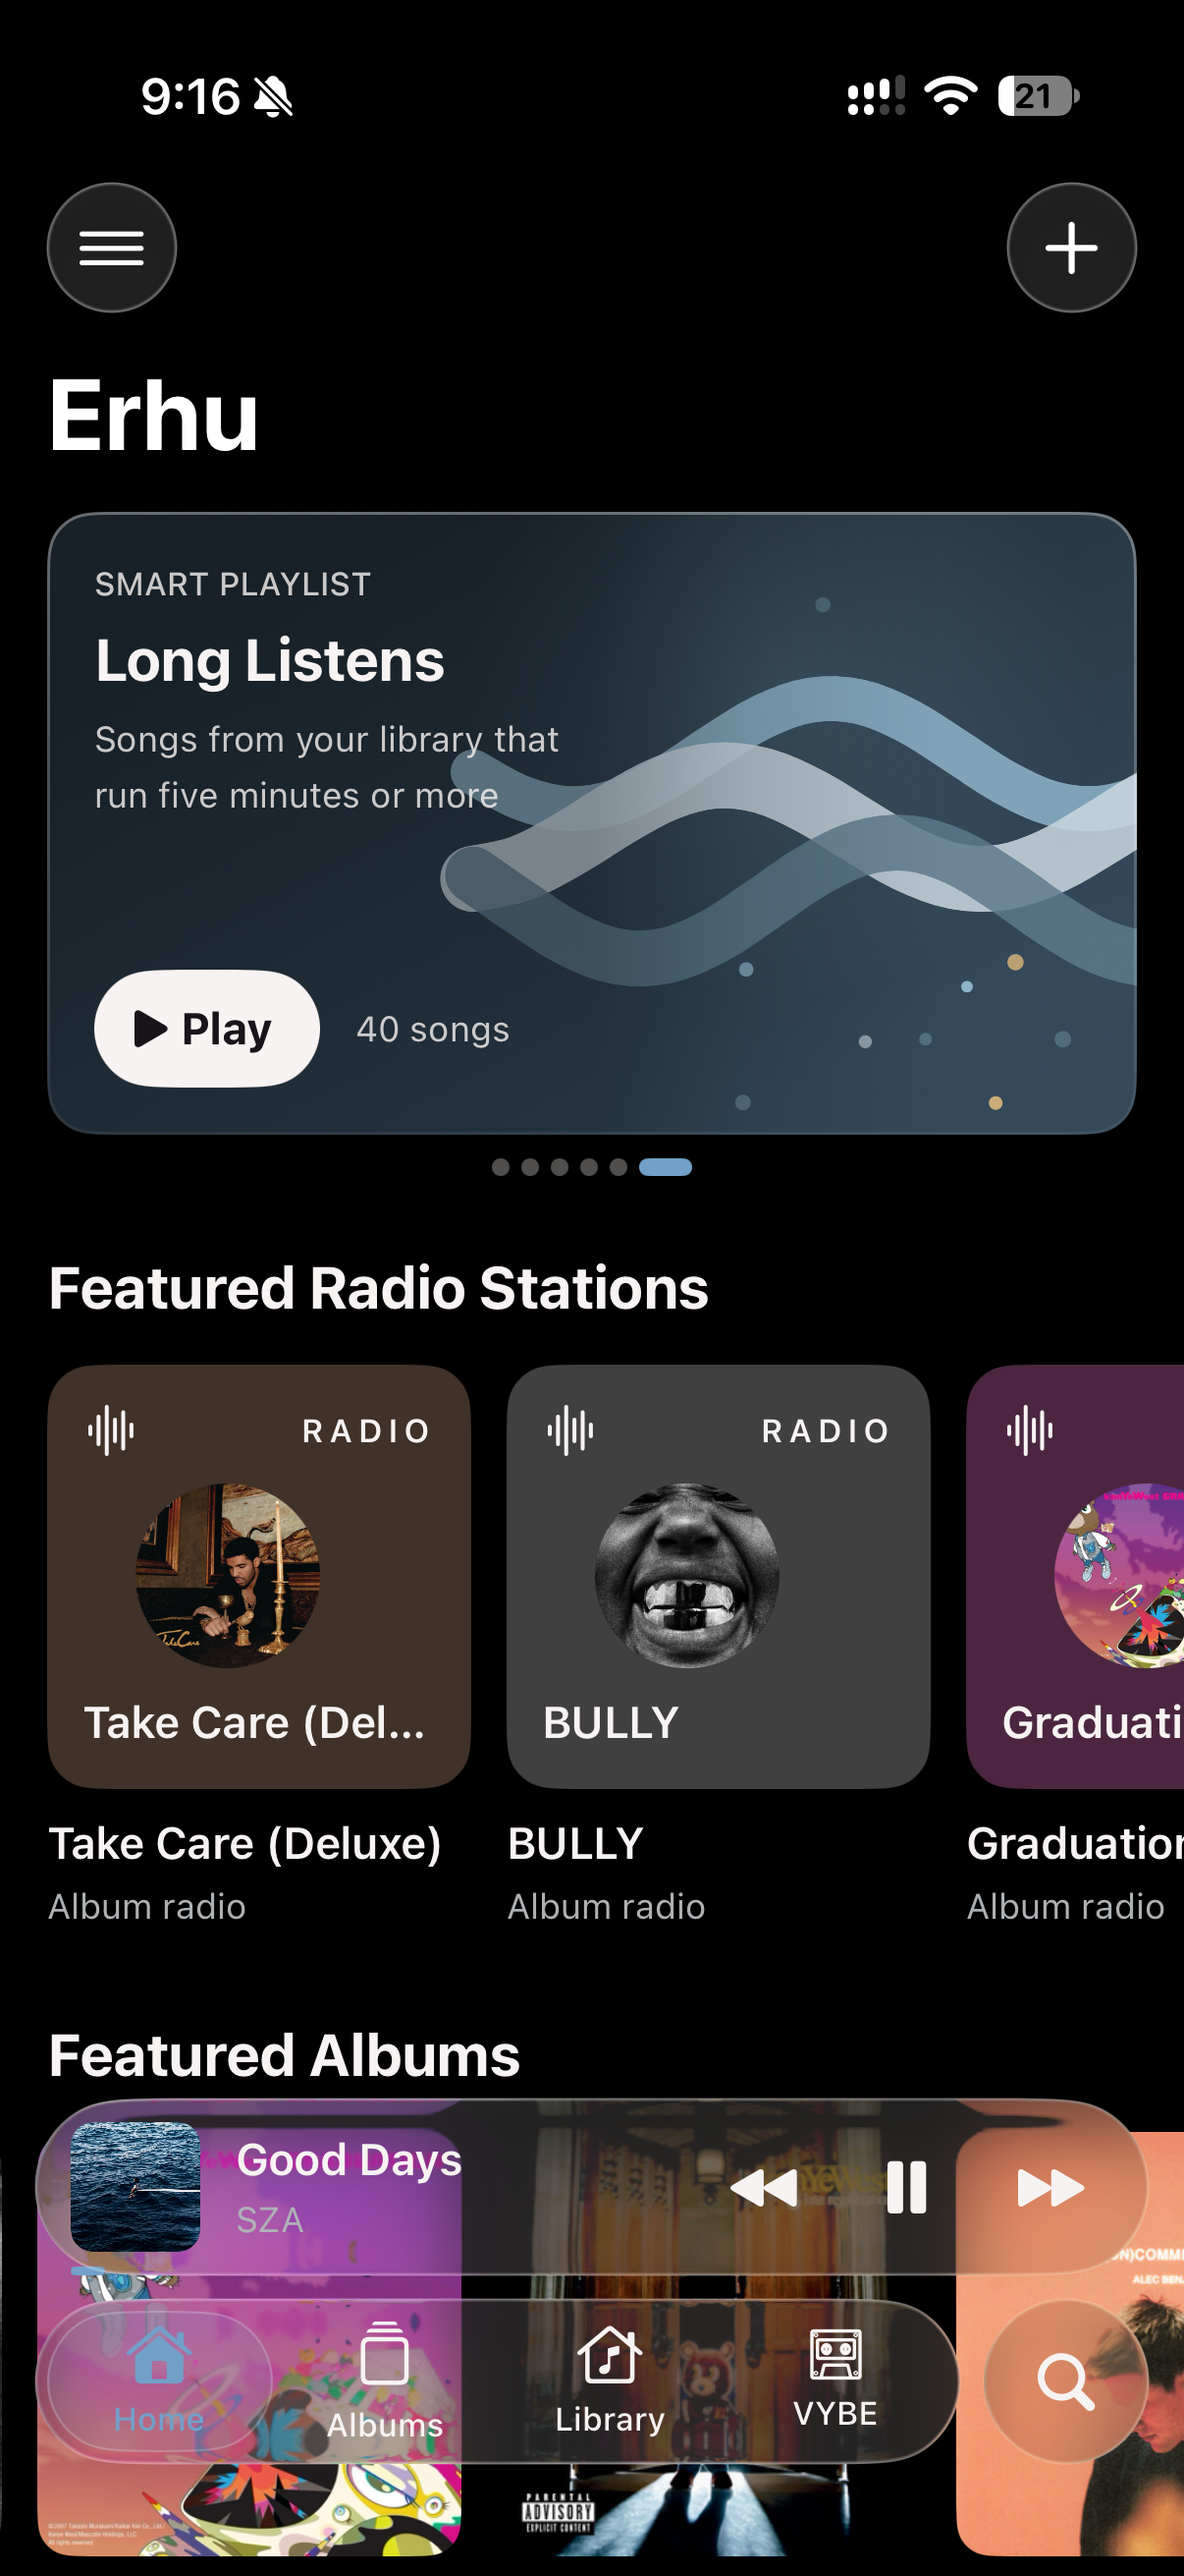
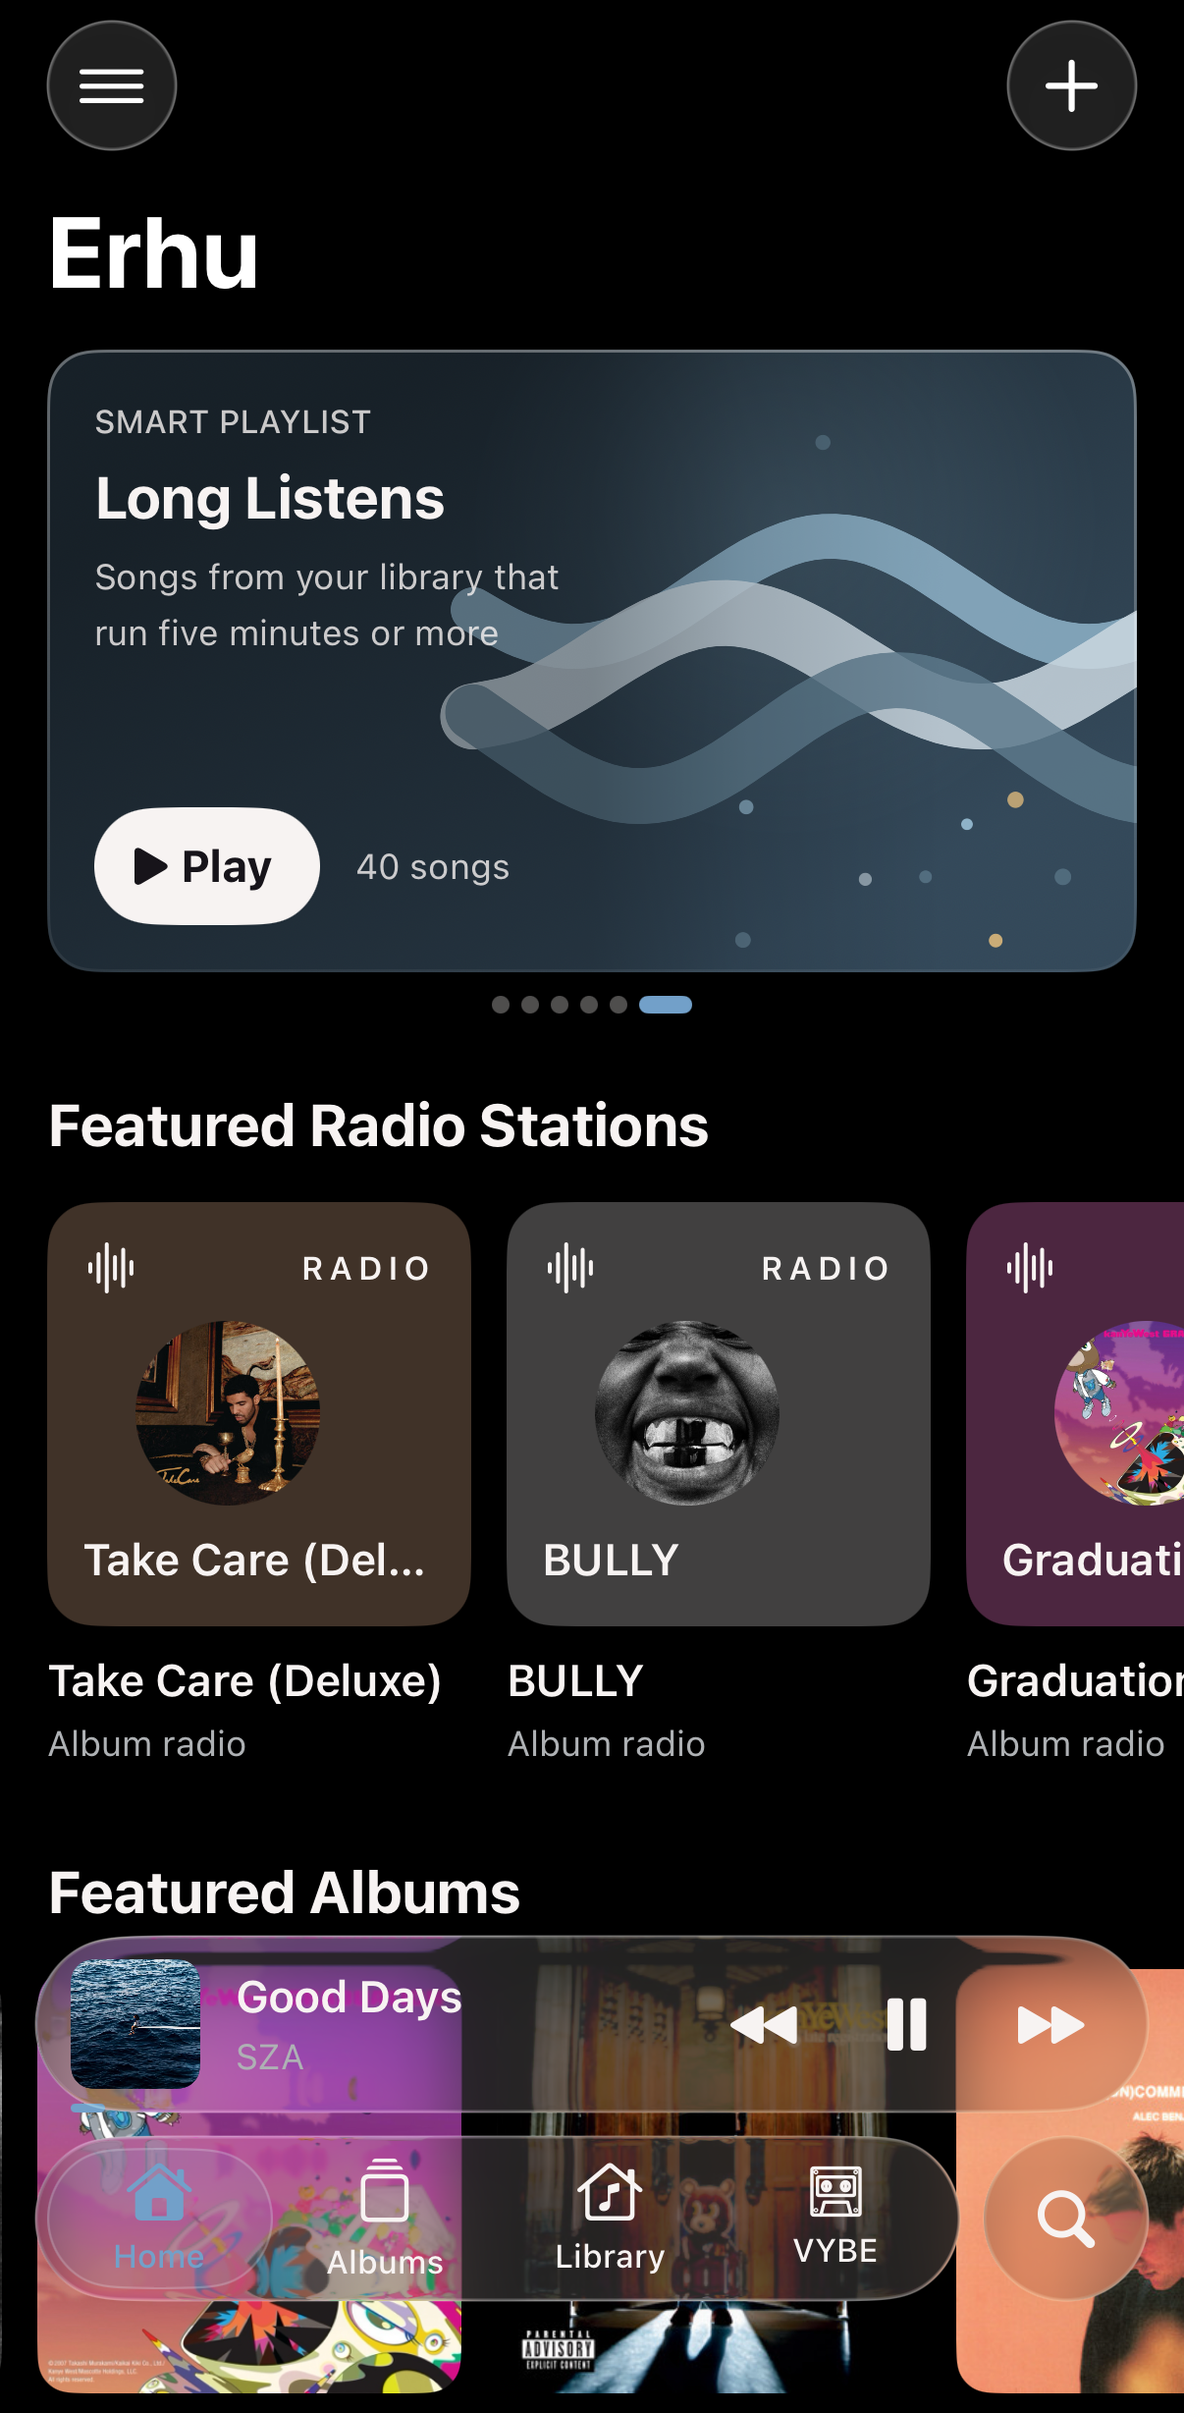
Crop the status bar from the README screenshots [skip ci]

diff --git a/images/showcase/README.md b/images/showcase/README.md
@@ -1,7 +1,7 @@
 # README showcase images
 
 The images shown in the main [README](../../README.md). They are plain iPhone screenshots
-(1206 × 2622) for now; replace each file with a styled version under the same filename and
+(1206 × 2457, status bar cropped) for now; replace each file with a styled version under the same filename and
 the README picks it up automatically.
 
 | File | Screen | README section |
